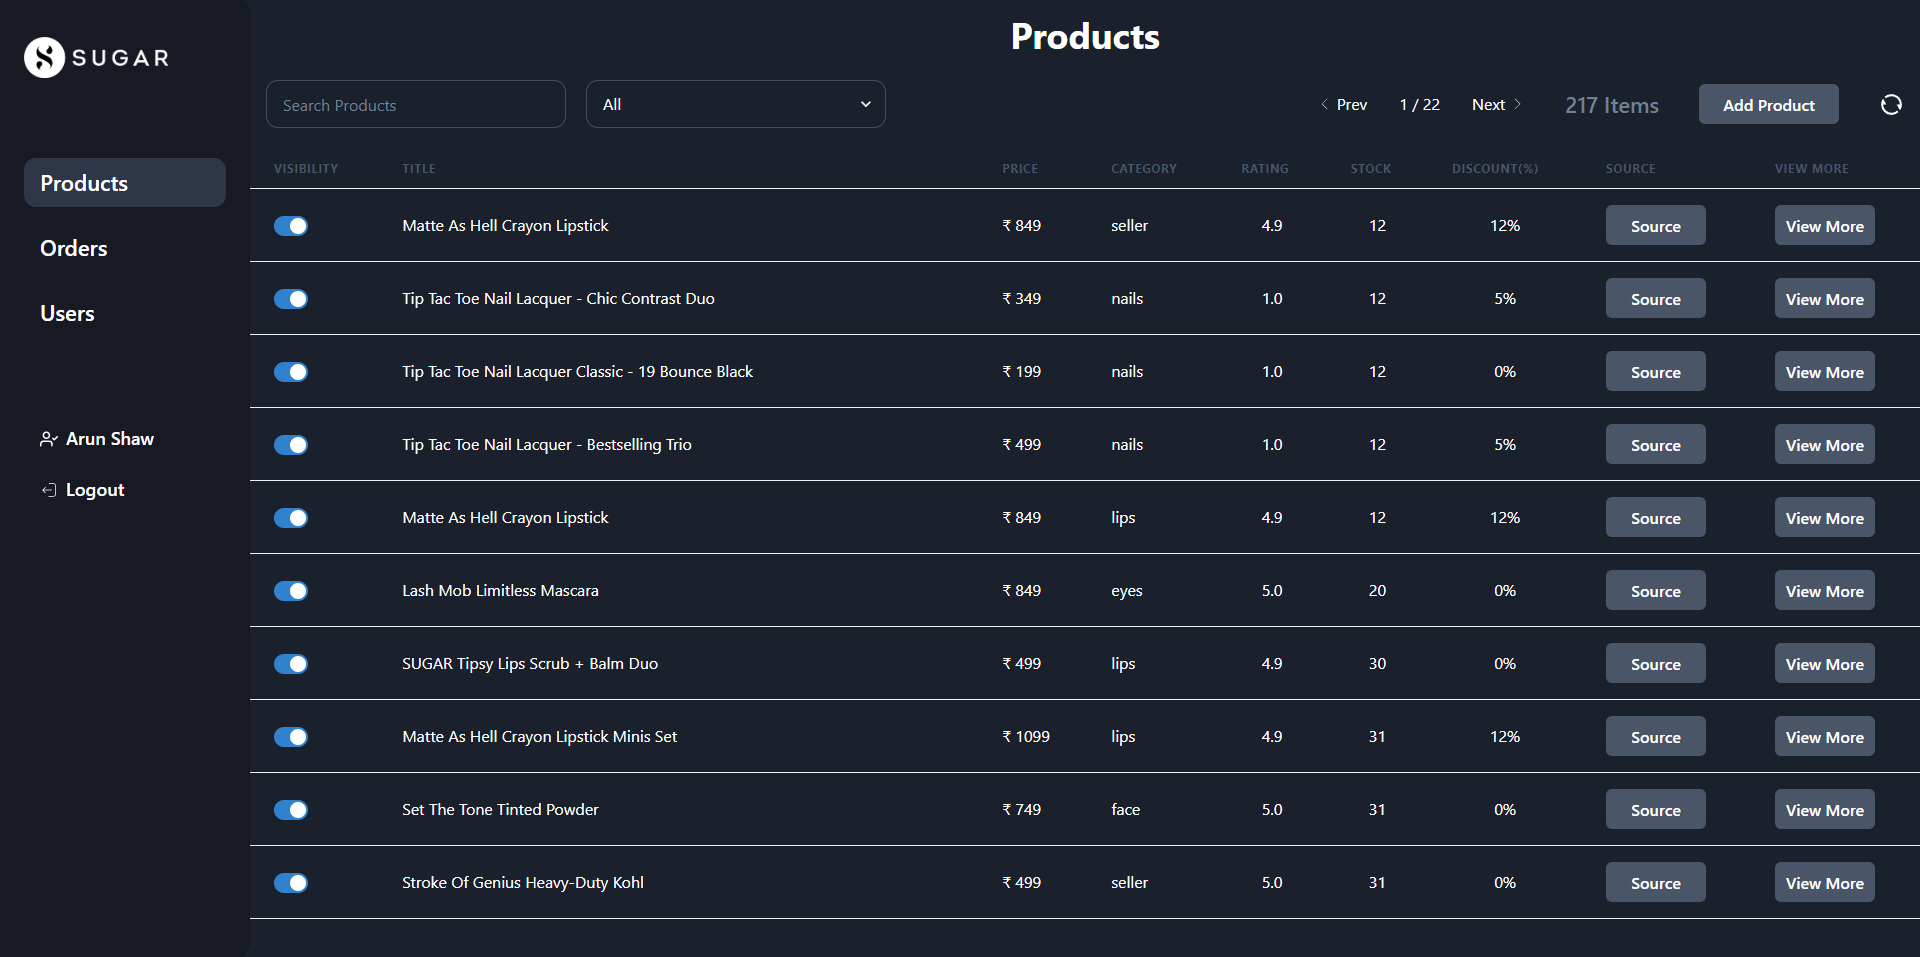
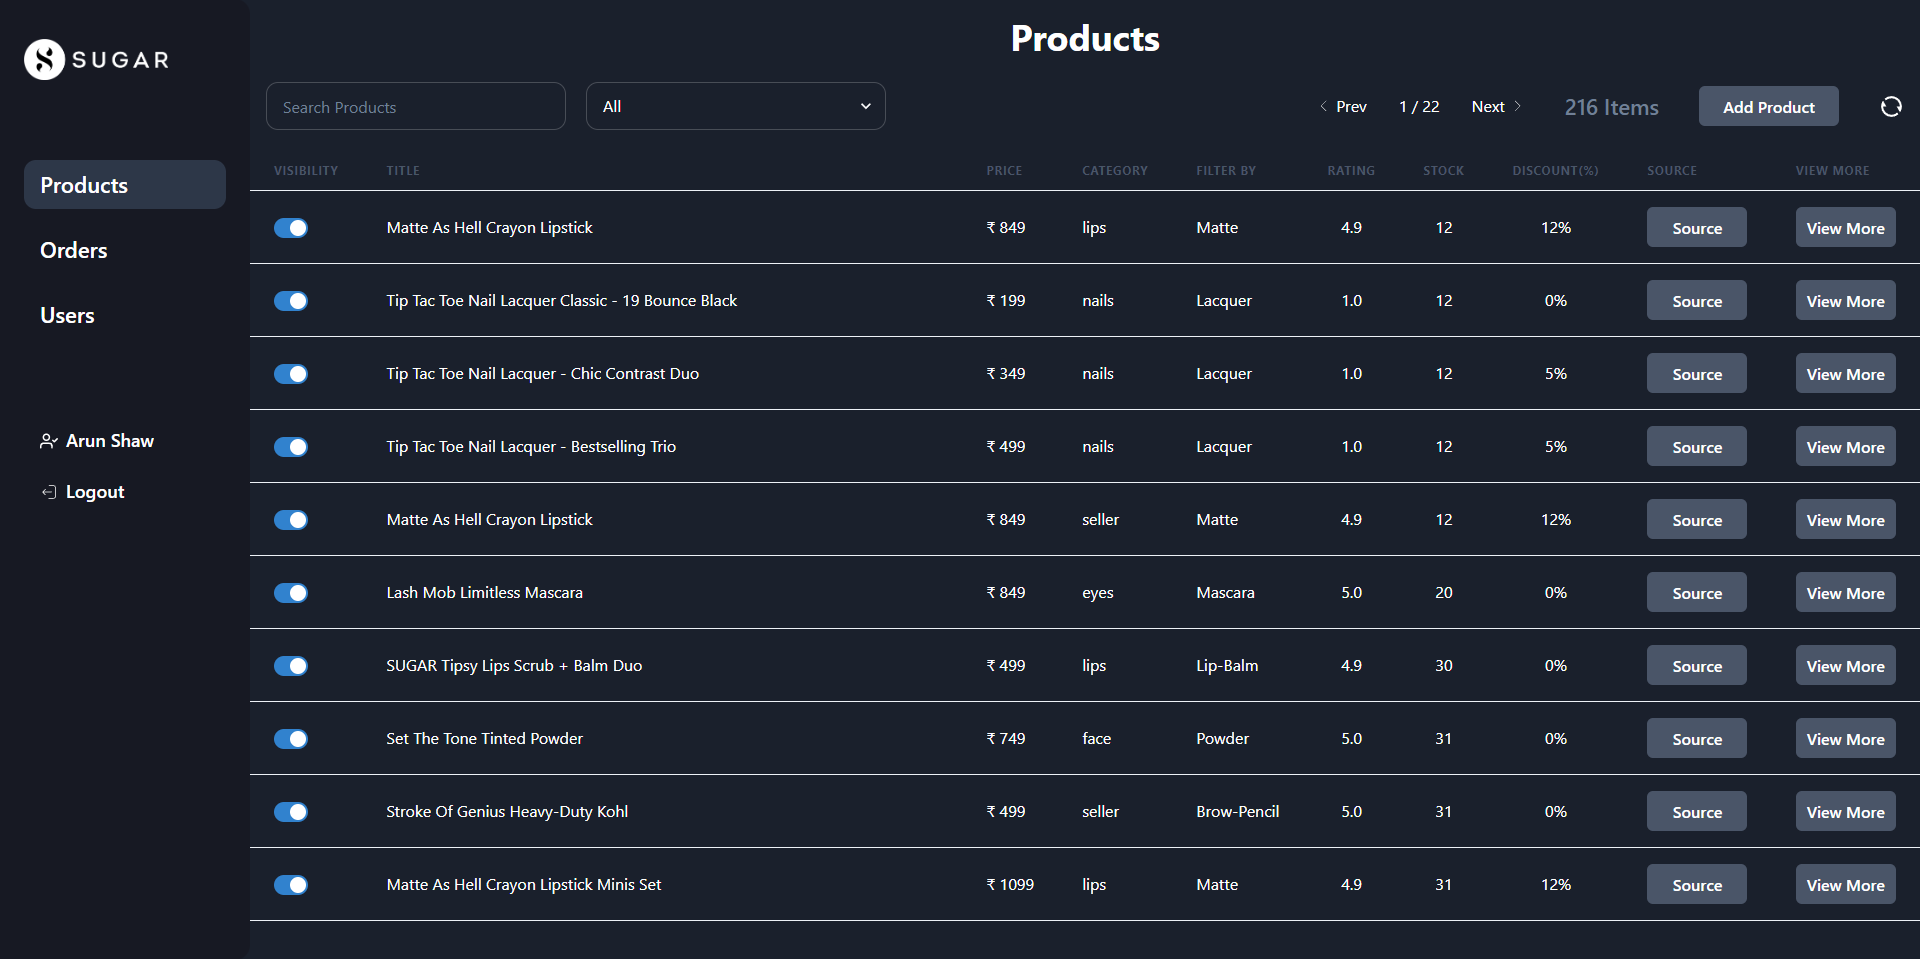
added filter coloum in products dashboard

diff --git a/src/components/ProductRow.jsx b/src/components/ProductRow.jsx
@@ -8,7 +8,7 @@ import { useEffect, useState } from 'react';
 const ProductRow = ({ data, load, token }) => {
 
     const { isOpen, onOpen, onClose } = useDisclosure();
-    const { _id, title, price, category, rating, inventory, discount, source, visibility } = data;
+    const { _id, title, price, category, filter, rating, inventory, discount, source, visibility } = data;
 
     const [corrupted, set_corrupted] = useState(false);
 
@@ -41,6 +41,7 @@ const ProductRow = ({ data, load, token }) => {
             <Td w={600} minW={600} _after={corrupted && { content: '"fix"', backgroundColor: 'red', paddingLeft: 2, paddingRight: 2, borderRadius: '10px' }} > {title} </Td>
             <Td> ₹ {price} </Td>
             <Td> {category} </Td>
+            <Td> {filter} </Td>
             <Td textAlign={'center'}> {rating} </Td>
             <Td textAlign={'center'}> {inventory} </Td>
             <Td textAlign={'center'}> {discount}% </Td>

diff --git a/src/pages/index.jsx b/src/pages/index.jsx
@@ -110,6 +110,7 @@ const products = ({ token }) => {
                 <Th> Title </Th>
                 <Th> Price </Th>
                 <Th> Category </Th>
+                <Th> Filter By </Th>
                 <Th> Rating </Th>
                 <Th> Stock </Th>
                 <Th> Discount(%) </Th>
